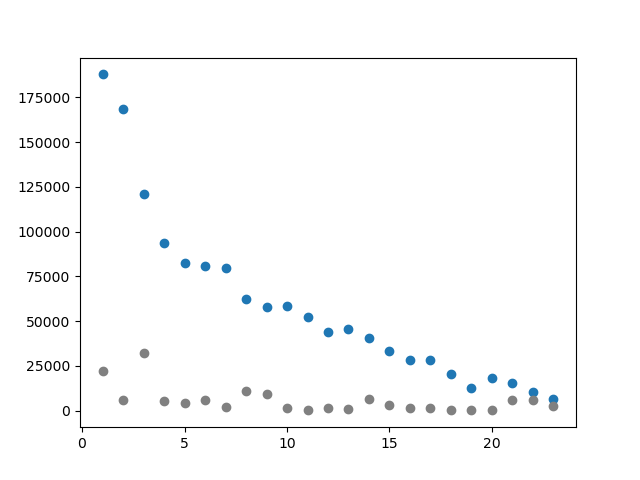
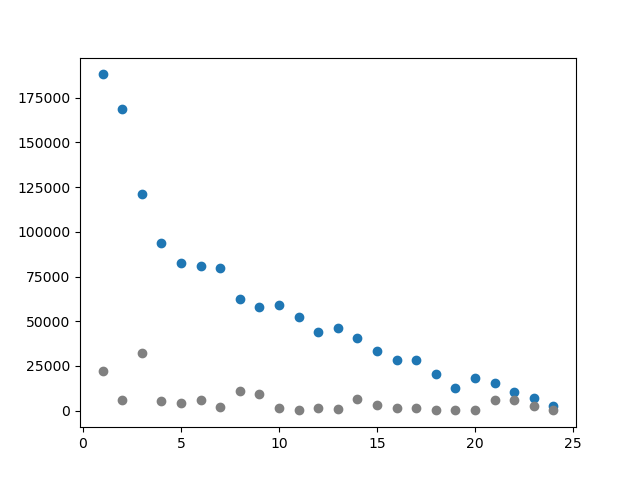
Update user-progress chart

diff --git a/completers.py b/completers.py
@@ -5,29 +5,30 @@ import matplotlib.pyplot as plt
 import re
 
 website="""
-23    6421   2831  ***
-22   10450   6126  ****
-21   15281   5947  *****
-20   18329    318  *****
-19   12744    270  ****
-18   20443    163  *****
-17   28046   1310  *******
-16   28066   1502  *******
-15   33283   3077  ********
-14   40427   6364  **********
-13   45876    760  **********
-12   44109   1703  **********
-11   52328    252  ***********
-10   58715   1535  *************
- 9   57862   9284  **************
- 8   62111  11023  ***************
- 7   79762   2084  *****************
- 6   80808   6194  ******************
- 5   82589   4018  *****************
- 4   93819   5306  ********************
- 3  121052  32201  *******************************
- 2  168504   6221  ***********************************
- 1  187806  21997  *****************************************
+24    2446    139  **
+23    7197   2739  ***
+22   10702   6118  *****
+21   15452   5966  *****
+20   18492    327  *****
+19   12871    266  ****
+18   20581    169  *****
+17   28182   1309  *******
+16   28184   1501  *******
+15   33398   3087  ********
+14   40550   6369  **********
+13   46007    760  **********
+12   44223   1699  **********
+11   52452    251  ***********
+10   58830   1545  *************
+ 9   57980   9300  **************
+ 8   62228  11068  ***************
+ 7   79909   2080  *****************
+ 6   80955   6207  ******************
+ 5   82735   4029  *****************
+ 4   93982   5315  ********************
+ 3  121231  32271  *******************************
+ 2  168761   6224  ***********************************
+ 1  188077  22005  *****************************************
 """
 a = website.split('\n')
 a.reverse()
